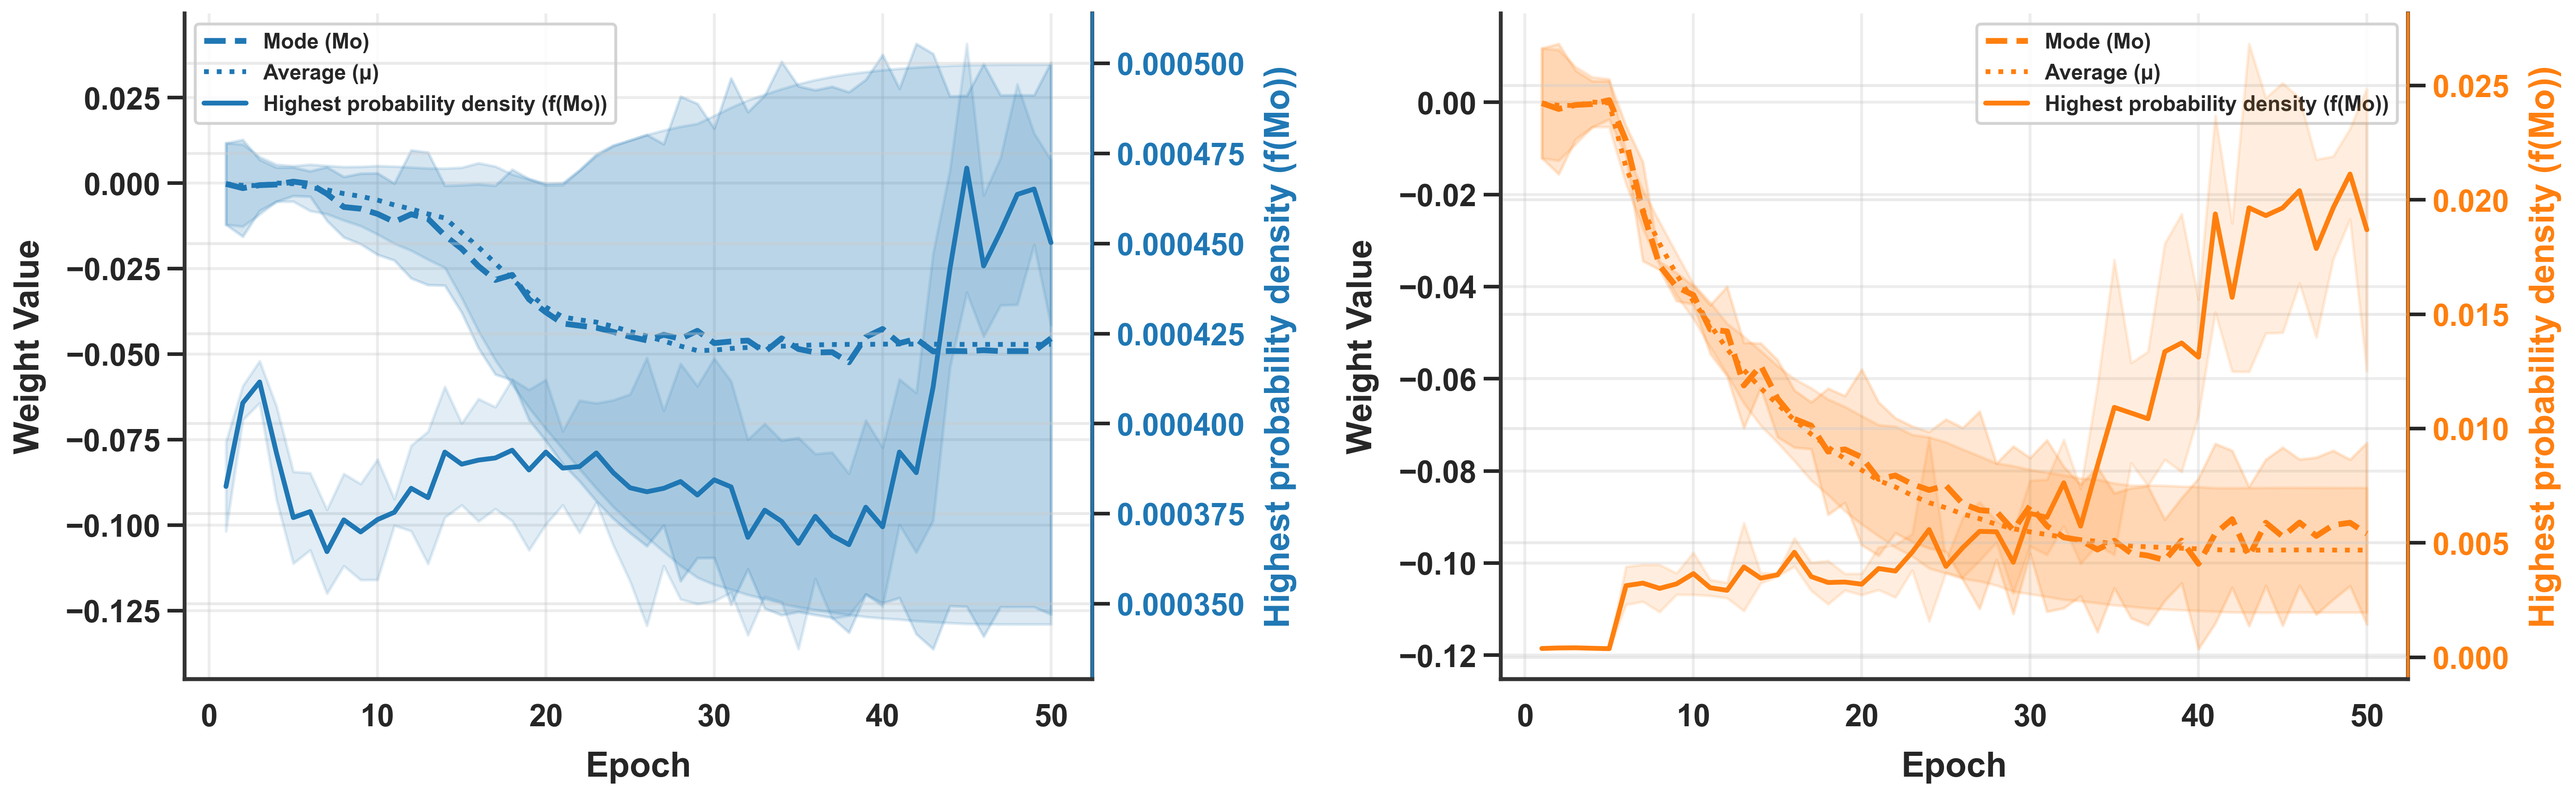
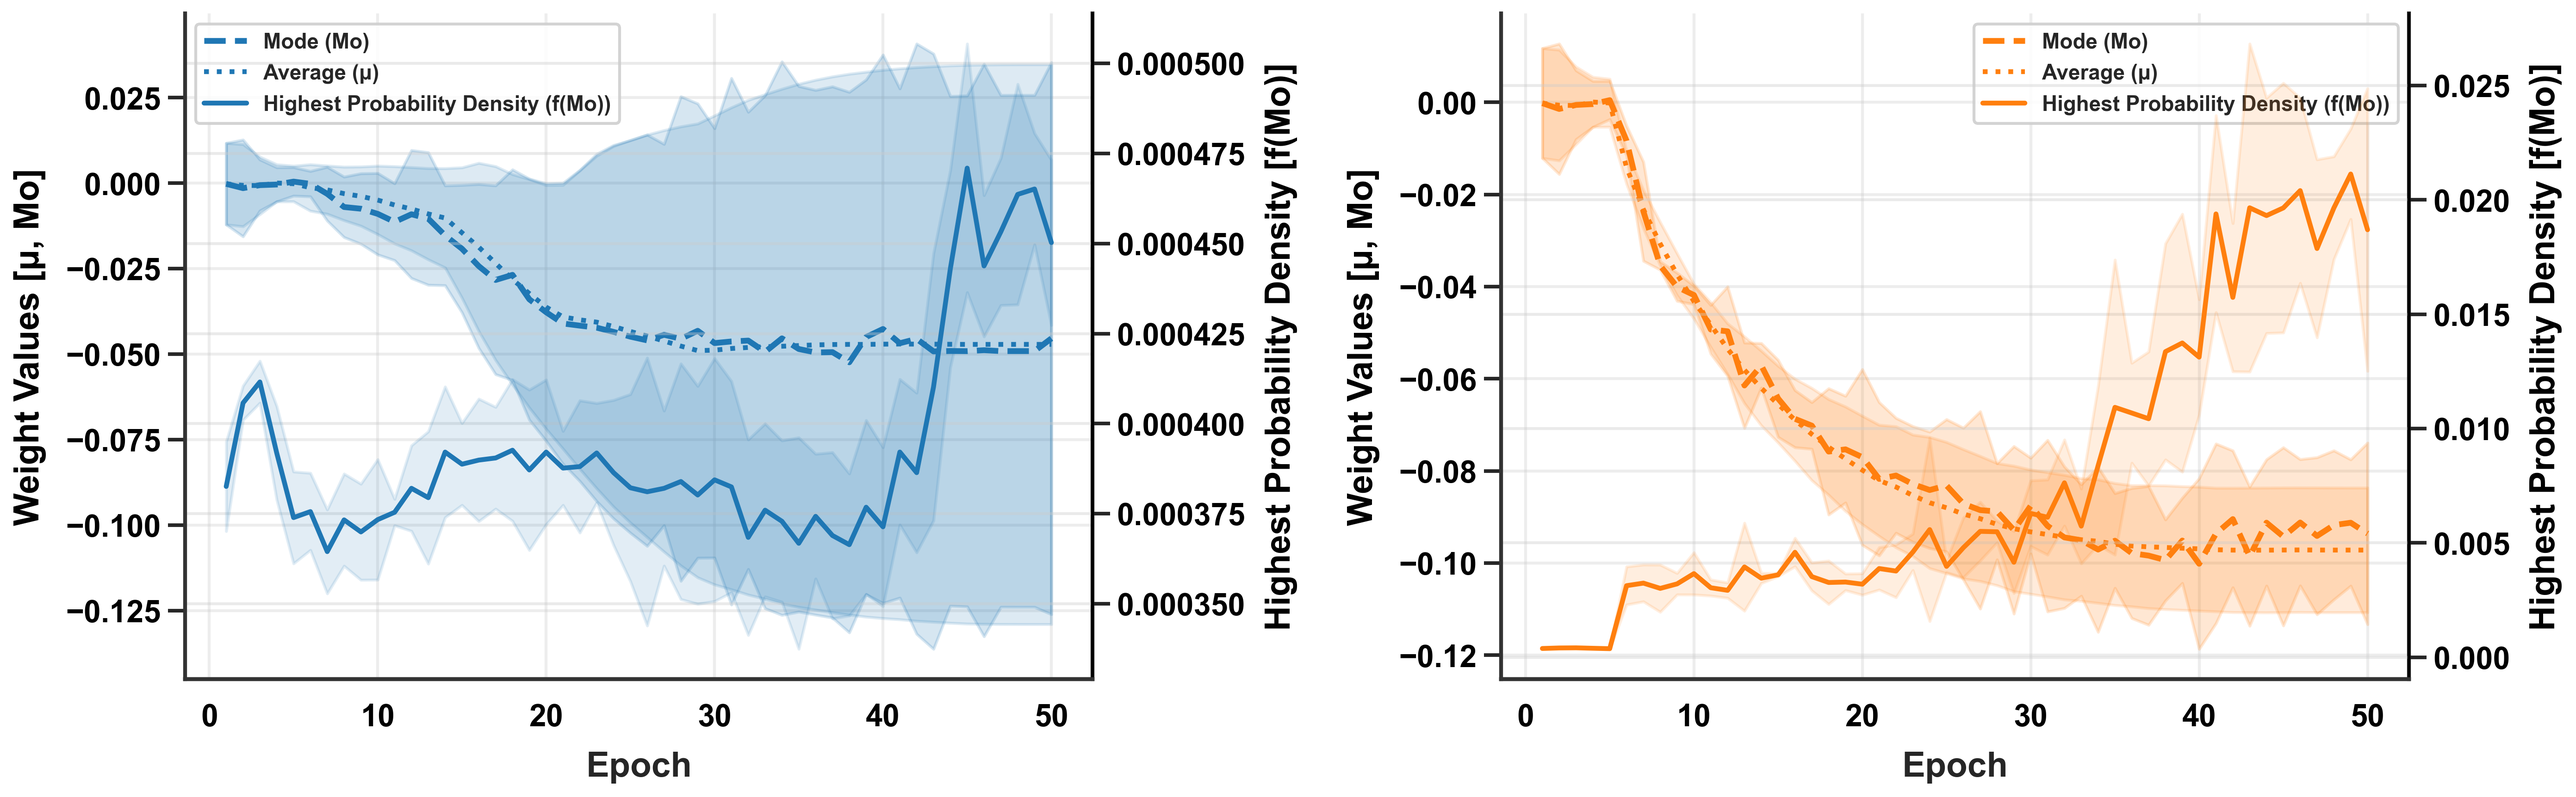
? - small change in summary dist

diff --git a/Research/Complexity_Training_Test/plot.py b/Research/Complexity_Training_Test/plot.py
@@ -1978,22 +1978,22 @@ def plot_distribution_summary_per_epoch(sources):
         # --- Highest probability density f(Mo)  (Y of GIF dashed line) -- right axis ---
         m, lo, hi = _vec('peak_density')
         ax_right.plot(xs, m, color=panel_color, linewidth=2.5, linestyle='-',
-                      label='Highest probability density (f(Mo))')
+                      label='Highest Probability Density (f(Mo))')
         ax_right.fill_between(xs, lo, hi, color=panel_color, alpha=0.13)
-        ax_right.set_ylabel('Highest probability density (f(Mo))', fontsize=18,
-                            fontweight='bold', labelpad=10, color=panel_color)
-        ax_right.tick_params(axis='y', labelcolor=panel_color, labelsize=16)
+        ax_right.set_ylabel('Highest Probability Density [f(Mo)]', fontsize=18,
+                            fontweight='bold', labelpad=10, color='black')
+        ax_right.tick_params(axis='y', labelcolor='black', labelsize=16)
         ax_right.spines['top'].set_visible(False)
-        ax_right.spines['right'].set_color(panel_color)
+        ax_right.spines['right'].set_color('black')
         ax_right.spines['right'].set_linewidth(1.5)
 
         ax.set_xlabel('Epoch', fontsize=18, fontweight='bold', labelpad=10)
-        ax.set_ylabel('Weight Value', fontsize=18, fontweight='bold', labelpad=10)
-        ax.tick_params(axis='both', labelsize=16)
+        ax.set_ylabel('Weight Values [μ, Mo]', fontsize=18, fontweight='bold', labelpad=10, color='black')
+        ax.tick_params(axis='both', labelsize=16, labelcolor='black')
         ax.grid(True, alpha=0.35)
         ax.set_axisbelow(True)
         ax.spines['top'].set_visible(False)
-        ax.spines['left'].set_color(panel_color)
+        ax.spines['left'].set_color('black')
         ax.spines['left'].set_linewidth(1.5)
 
         # Combined legend from both axes
